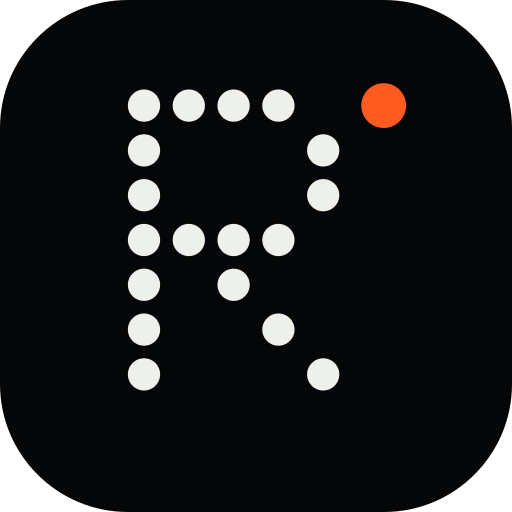
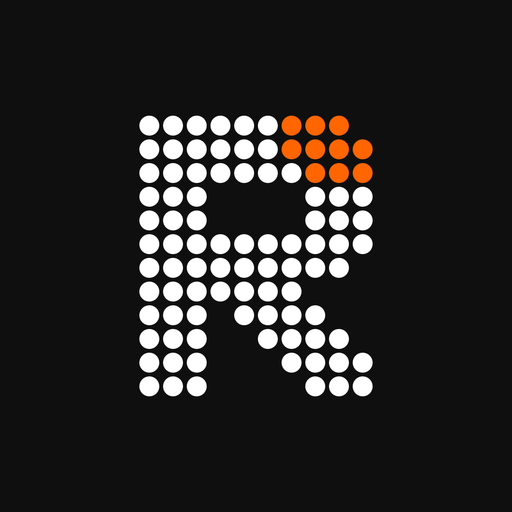
Bring the open-source copy up to date with the owner's brand files, the live contract address and the project's X and GitHub links.

diff --git a/src/components/site/Mark.tsx b/src/components/site/Mark.tsx
@@ -1,19 +1,37 @@
 /*
- * Rexson's mark (AI placeholder until the owner's logo arrives; referensi/tools/apply-owner-assets.mjs swaps the files): an "R" drawn
- * on a 5 x 7 dot matrix, with one accent dot, in the LED language of the site. Inline SVG so it follows currentColor.
+ * Rexson's mark: the owner's dot-matrix "R", split by referensi/tools/apply-owner-assets.mjs into two alpha layers. The dots are a
+ * CSS mask in currentColor and the accent dots a mask in var(--accent), so the mark reads on the light paper and the dark ink.
  */
-const R_DOTS = ["11110", "10001", "10001", "11110", "10100", "10010", "10001"];
+import type { CSSProperties } from "react";
+
+const BASE_URL = "url(/brand/mark.webp?v=76cc58c5)";
+const ACCENT_URL = "url(/brand/mark-accent.webp?v=e3f053a6)";
+
+const layer = (url: string, color: string): CSSProperties => ({
+  position: "absolute",
+  inset: 0,
+  backgroundColor: color,
+  WebkitMaskImage: url,
+  maskImage: url,
+  WebkitMaskRepeat: "no-repeat",
+  maskRepeat: "no-repeat",
+  WebkitMaskPosition: "center",
+  maskPosition: "center",
+  WebkitMaskSize: "contain",
+  maskSize: "contain",
+});
 
 export function MarkGlyph({ size = 22, className = "", accent = true }: { size?: number; className?: string; accent?: boolean }) {
-  const dots: [number, number][] = [];
-  R_DOTS.forEach((row, y) => [...row].forEach((c, x) => c === "1" && dots.push([x, y])));
   return (
-    <svg aria-hidden="true" data-testid="brand-mark" className={`mk shrink-0 ${className}`} width={size} height={size} viewBox="-0.5 -0.5 7 8">
-      {dots.map(([x, y]) => (
-        <circle key={`${x}-${y}`} cx={x + 0.5} cy={y + 0.5} r={0.36} fill="currentColor" />
-      ))}
-      {accent ? <circle cx={5.85} cy={0.5} r={0.5} fill="var(--accent)" /> : null}
-    </svg>
+    <span
+      aria-hidden="true"
+      data-testid="brand-mark"
+      className={`mk shrink-0 ${className}`}
+      style={{ position: "relative", display: "inline-block", width: size, height: size }}
+    >
+      <span style={layer(BASE_URL, "currentColor")} />
+      <span style={layer(ACCENT_URL, accent ? "var(--accent)" : "currentColor")} />
+    </span>
   );
 }
 

diff --git a/src/config/contracts.ts b/src/config/contracts.ts
@@ -1,19 +1,19 @@
 import { isAddress } from "@/config/brand";
 
 /*
- * Rexson's own contract on Robinhood Chain (chain 4663). Not deployed yet: the owner deploys it from the local-only /deploy page.
- * Once deployed, put the address, the deployment block and the creation transaction below and run
+ * Rexson's own contract on Robinhood Chain (chain 4663). Deployed 26 Nov 2026 by the owner.
+ * Address, deployment block and creation transaction below; check with
  * `npm run verify-deployment -- --ledger <address> --ledger-tx <tx>` (prints MATCH).
  *   ledger  RexsonFactLedger (+ internal library RexsonLedgerMath, inlined): projects with editors and reviewers, fact drafts and
  *           all-or-nothing batch approval of fact versions (content hashes only), grants per assistant key hash (groups, level,
  *           expiry), checkRead reason bits, receipt batches anchored as Merkle roots. No funds, no admin, no upgrade.
  */
 const DEPLOYED = {
-  ledger: "",
+  ledger: "0x1b9ecaaa58e28e2a9f3edd2175c649b844a232ce",
   /** Block of the deployment transaction (log scans start here). */
-  block: 0,
+  block: 123517540,
   /** Creation transaction. */
-  tx: "",
[1 lines of base64/hex data omitted]
 };
 
 /**

diff --git a/src/config/brand.ts b/src/config/brand.ts
@@ -22,7 +22,7 @@ const SLUG = "rexson";
 const TICKER = "REXSON";
 const DOMAIN = "rexson.xyz";
 /** X account of the project (the owner's handle, exactly as written in the order). */
-const X_HANDLE = "rexson";
+const X_HANDLE = "rexsonxyz";
 
 export const BRAND = {
   name: NAME,
@@ -42,7 +42,7 @@ export const BRAND = {
   x: `https://x.com/${X_HANDLE}`,
   xHandle: `@${X_HANDLE}`,
   // Public source repository: none yet, so the link stays hidden.
-  github: "https://github.com/",
+  github: "https://github.com/rexson-xyz/rexson",
   ca: CA,
 } as const;
 

diff --git a/src/lib/seo.ts b/src/lib/seo.ts
@@ -37,7 +37,7 @@ export function pageMeta({
 }
 
 /** Share image version (sha8 of the file, written by referensi/tools/make-assets.mjs) and its description. */
-export const OG_V = "fd5e9208";
+export const OG_V = "f97a1eb2";
 export const OG_ALT = `${BRAND.name}: a dot-matrix fact card lit by an orange beam on black, with the line Approved memory for AI assistants.`;
 
 export type Crumb = { name: string; path: string };

diff --git a/README.md b/README.md
@@ -10,7 +10,7 @@ This repository is the working code behind https://rexson.xyz.
 
 - **What runs today:** facts with sources and versions, drafts, all-or-nothing batch approval, stale-draft detection, retire and delete; assistant keys scoped to fact groups, a level and an expiry; the read API (`GET /api/facts` as JSON or plain text, and a read-only JSON-RPC tool at `POST /api/mcp`); read receipts without fact text. A practice workspace runs in the browser on sample data with no wallet; a hosted project needs one free wallet signature.
 - **Live data:** the latest Robinhood Chain block, gas price and the Chainlink ETH/USD feed, read through the site's own relay; the ledger page reads the contract's events from chain logs.
-- **The contract:** `RexsonFactLedger` records hashes only (approved content hashes, grant scopes per assistant key hash, receipt Merkle roots) as a public change log. It is **not deployed yet**. When a grant is issued on chain, the server checks it with `checkReads` before every read and refuses the read if the chain says no.
+- **The contract:** `RexsonFactLedger` records hashes only (approved content hashes, grant scopes per assistant key hash, receipt Merkle roots) as a public change log. It is live on Robinhood Chain at `0x1b9ecaaa58e28e2a9f3edd2175c649b844a232ce` (verified on Blockscout). When a grant is issued on chain, the server checks it with `checkReads` before every read and refuses the read if the chain says no.
 - **Planned, not built:** several editors and reviewers in one hosted project (the contract already has the roles), more than one project per wallet, and token features for $REXSON.
 - **What nothing here claims:** Rexson does not make an assistant correct and cannot reach copies of a fact you pasted elsewhere. The server operator can read hosted facts; do not store secrets. $REXSON has no promised value. Not affiliated with Robinhood.
 
@@ -18,7 +18,7 @@ This repository is the working code behind https://rexson.xyz.
 
 | Path | What it is |
 |---|---|
-| `src/app/` | Pages (`/`, `/app`, `/docs`, `/ledger`, `/token`, local-only `/deploy`) and API routes (`facts`, `mcp`, `workspace`, `ledger`, `chain`, `rpc`). |
+| `src/app/` | Pages (`/`, `/app`, `/docs`, `/ledger`, `/token`) and API routes (`facts`, `mcp`, `workspace`, `ledger`, `chain`, `rpc`). |
 | `src/components/` | Interface components: home sections, the workspace app, the chain tab, the wallet dialog. |
 | `src/config/` | `brand.ts` (name, ticker, token address, links) and `contracts.ts` (deployed contract address). Every brand value is read from here. |
 | `src/lib/facts/` | The workspace rules (drafts, batch approval, grants, reads, receipts, hashing, Merkle roots), shared by the browser and the server. |
@@ -65,7 +65,7 @@ Open http://localhost:6820. The practice workspace, the docs and the live chain 
 
 | Contract | Address | Explorer |
 |---|---|---|
-| RexsonFactLedger (with internal library RexsonLedgerMath) | not deployed yet | — |
+| RexsonFactLedger (with internal library RexsonLedgerMath) | `0x1b9ecaaa58e28e2a9f3edd2175c649b844a232ce` | [Blockscout](https://robinhoodchain.blockscout.com/address/0x1b9ecaaa58e28e2a9f3edd2175c649b844a232ce) |
 
 Projects have an owner who names editors and reviewers. An editor proposes a fact version based on the current one; a reviewer approves up to 20 drafts in one transaction, all or none, and cannot approve their own draft unless the project allows solo approval. The owner issues, changes and revokes grants (assistant key hash, groups, level, expiry). `checkRead`, `checkPropose` and `checkApprove` return every refusal as a reason bit before anything is signed. Receipt batches are anchored as Merkle roots. Fact text never goes on chain. There is no global owner, no admin over anyone's project, no fee, no upgrade, and it holds no funds.
 
@@ -115,7 +115,7 @@ $REXSON is the community token of Rexson on Robinhood Chain. Contract address: a
 | `STORE_KEY_PREFIX` | Key prefix in a shared store | e.g. `rexson:` |
 
 3. Point your domain at it and check `/` (200), `/api/chain` (JSON with a block number) and `/llms.txt`.
-4. Contract: `RexsonFactLedger` takes no constructor arguments. Deploy it (the local-only `/deploy` page does it from a wallet), put the address, block and creation transaction into `src/config/contracts.ts`, then run `npm run verify-deployment`.
+4. Contract: `RexsonFactLedger` takes no constructor arguments. Deploy it from your own wallet (one creation transaction), put the address, block and creation transaction into `src/config/contracts.ts`, then run `npm run verify-deployment`.
 
 ## Contributing
 
